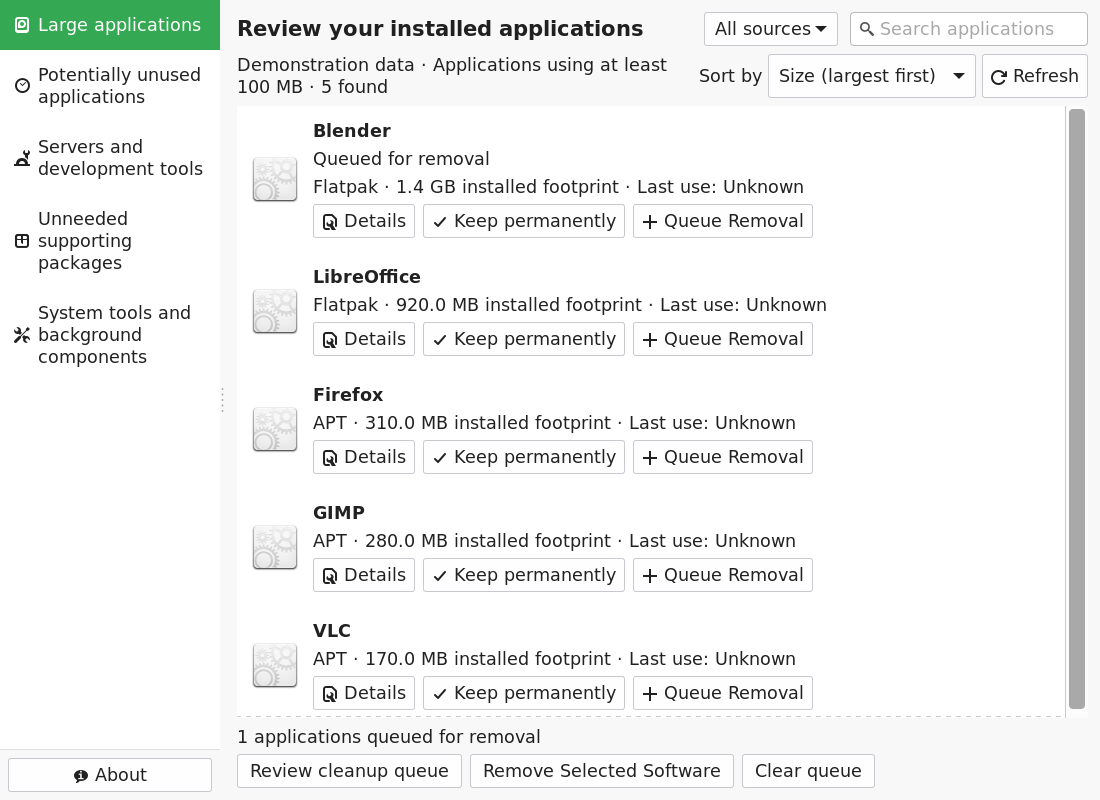
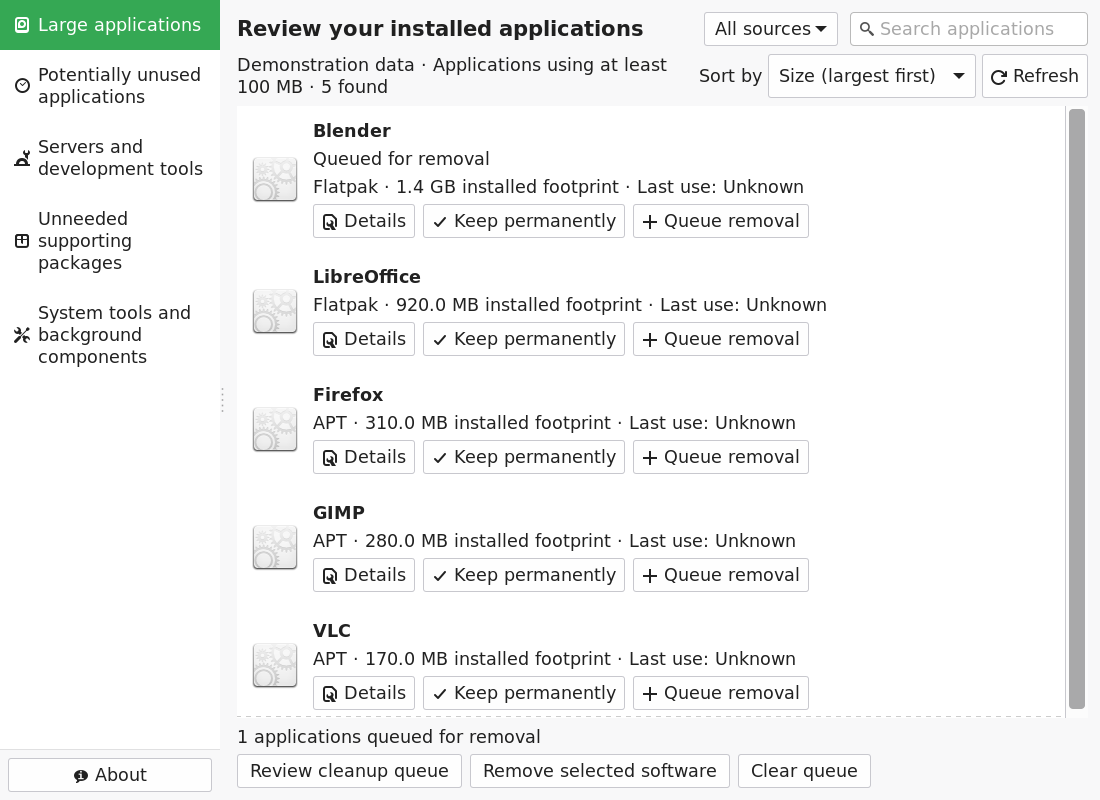
Release v0.1.2 with consistent sentence-case action labels

diff --git a/package_cleaner/presentation.py b/package_cleaner/presentation.py
@@ -433,7 +433,7 @@ def review(packages, candidates=None, log=None, preferences=None, limit=5, categ
         if item.package in preferences.kept or item.identity in preferences.kept:
             print('Currently marked Keep; future scans will leave it out.')
         protected = bool(packages[item.package].protected)
-        write('[K] Keep permanently  ' + ('' if protected else '[R] Queue Removal  ') + '[S] Skip  [P] Previous  [D] Details  [T] Advanced package information  [F] Finish  [Q] Quit', 'actions')
+        write('[K] Keep permanently  ' + ('' if protected else '[R] Queue removal  ') + '[S] Skip  [P] Previous  [D] Details  [T] Advanced package information  [F] Finish  [Q] Quit', 'actions')
         answer = ask('What would you like to do? ' + ('[K/S/P/D/T/F/Q]:' if protected else '[K/R/S/P/D/T/F/Q]:'), 'question')
         if answer == 'q':
             return quit_review(selected)
@@ -541,10 +541,10 @@ def review(packages, candidates=None, log=None, preferences=None, limit=5, categ
                 title, purpose, keep_reason = describe(fresh[name])
                 print(f'\nAlso affected: {title}\n{purpose}\n{keep_reason}')
                 print('Your current selection would also remove this software. It needs a separate decision.')
-                choice = ask('[R] Queue Removal — add to preview  [K] Keep permanently  [S] Skip  [D] Details  [Q] Quit: ')
+                choice = ask('[R] Queue removal — add to preview  [K] Keep permanently  [S] Skip  [D] Details  [Q] Quit: ')
                 while choice == 'd':
                     details(fresh[name], fresh)
-                    choice = ask('[R] Queue Removal — add to preview  [K] Keep permanently  [S] Skip  [Q] Quit: ')
+                    choice = ask('[R] Queue removal — add to preview  [K] Keep permanently  [S] Skip  [Q] Quit: ')
                 if choice == 'q':
                     return quit_review(selected | additions)
                 if choice == 'r':
@@ -563,7 +563,7 @@ def review(packages, candidates=None, log=None, preferences=None, limit=5, categ
 
 
 def review_help():
-    write('Choose a category, then review one application at a time. [K] Keep permanently saves your choice; [R] Queue Removal checks the proposed changes; [S] Skip asks again next time. At a set boundary, [N] Next set continues the review. [P] Previous revisits a suggestion; [D] Details shows more information. [F] Finish shows your selected cleanup; [Q] Quit discards it.')
+    write('Choose a category, then review one application at a time. [K] Keep permanently saves your choice; [R] Queue removal checks the proposed changes; [S] Skip asks again next time. At a set boundary, [N] Next set continues the review. [P] Previous revisits a suggestion; [D] Details shows more information. [F] Finish shows your selected cleanup; [Q] Quit discards it.')
     write('Removal is available only with --enable-removal, followed by Execute and exact REMOVE confirmation. Usage records may be incomplete, and old file timestamps do not prove non-use. Details explains the current application. Advanced package information and the final detailed proposal are paginated.')
 
 

diff --git a/package_cleaner/gui.py b/package_cleaner/gui.py
@@ -226,7 +226,7 @@ def Window(application, service):
             self.preview_button = Gtk.Button(label='Review cleanup queue')
             self.preview_button.connect('clicked', lambda _: self.perform('Validating the removal queue…', service.validate, self.show_preview))
             queue_actions.pack_start(self.preview_button, False, False, 0)
-            self.remove_button = Gtk.Button(label='Remove Selected Software')
+            self.remove_button = Gtk.Button(label='Remove selected software')
             self.remove_button.set_tooltip_text('Validate and review the queue before confirming removal')
             self.remove_button.connect('clicked', self.start_cleanup)
             queue_actions.pack_start(self.remove_button, False, False, 0)
@@ -511,10 +511,10 @@ def Window(application, service):
                 for label, callback in (
                     ('Details', lambda _, i=item: self.details(i)),
                     ('Keep permanently', lambda _, i=item: self.perform('Saving your Keep choice…', lambda: service.keep(i.package), lambda value: self.after_keep(i))),
-                    ('Queue Removal', lambda _, i=item: self.perform('Updating the removal queue…', lambda: service.select(i.package), lambda value: self.after_queue(i)))):
+                    ('Queue removal', lambda _, i=item: self.perform('Updating the removal queue…', lambda: service.select(i.package), lambda value: self.after_queue(i)))):
                     button = Gtk.Button(label=label)
-                    decorate_button(button, {'Details': 'details', 'Keep permanently': 'keep', 'Queue Removal': 'queue'}[label])
-                    if label == 'Queue Removal':
+                    decorate_button(button, {'Details': 'details', 'Keep permanently': 'keep', 'Queue removal': 'queue'}[label])
+                    if label == 'Queue removal':
                         button.set_sensitive(not item.protected)
                         button.set_tooltip_text('Save your intention to remove this application. Review cleanup queue validates the proposed transaction; queuing never authorizes execution.')
                     button.connect('clicked', callback)
@@ -590,7 +590,7 @@ def Window(application, service):
             dialog.set_default_size(650, 520)
             dialog.add_button('Back to review', Gtk.ResponseType.CANCEL)
             if preview.ready:
-                dialog.add_button('Remove Selected Software…', Gtk.ResponseType.ACCEPT)
+                dialog.add_button('Remove selected software…', Gtk.ResponseType.ACCEPT)
             outer = Gtk.ScrolledWindow()
             outer.set_policy(Gtk.PolicyType.NEVER, Gtk.PolicyType.AUTOMATIC)
             dialog.get_content_area().pack_start(outer, True, True, 0)

diff --git a/tests/test_gui.py b/tests/test_gui.py
@@ -180,7 +180,7 @@ class GtkTests(ReviewServiceTests):
                     window.component_filter.set_active_id('all')
                     row=next(r for r in window.rows.get_children() if r.package_id=='protected')
                     actions=row.get_child().get_children()[1].get_children()[-1].get_children()
-                    self.assertFalse(next(b for b in actions if b.get_label()=='Queue Removal').get_sensitive())
+                    self.assertFalse(next(b for b in actions if b.get_label()=='Queue removal').get_sensitive())
                     window.search.set_text('tool')
                     self.assertFalse(window.component_controls.get_visible())
                     window.search.set_text('')
@@ -331,7 +331,7 @@ class GtkTests(ReviewServiceTests):
                 window.search.set_text(protected.name)
                 self.assertTrue(window.items[0].protected)
                 protected_actions = window.rows.get_children()[0].get_child().get_children()[1].get_children()[-1].get_children()
-                self.assertFalse(next(b for b in protected_actions if b.get_label() == 'Queue Removal').get_sensitive())
+                self.assertFalse(next(b for b in protected_actions if b.get_label() == 'Queue removal').get_sensitive())
                 window.search.set_text('')
                 self.assertEqual(discover.call_count,calls_before)
                 window.details(self.item)
@@ -340,8 +340,8 @@ class GtkTests(ReviewServiceTests):
                     if isinstance(widget, Gtk.Container):
                         for child in widget.get_children():
                             yield from descendants(child)
-                queue = next(w for w in descendants(window) if isinstance(w, Gtk.Button) and w.get_label() == 'Queue Removal')
-                self.assertEqual(queue.get_accessible().get_name(), 'Queue Removal')
+                queue = next(w for w in descendants(window) if isinstance(w, Gtk.Button) and w.get_label() == 'Queue removal')
+                self.assertEqual(queue.get_accessible().get_name(), 'Queue removal')
                 self.assertIn('never authorizes execution', queue.get_tooltip_text())
                 queue.clicked()
                 drain(window)

diff --git a/tests/test_guided.py b/tests/test_guided.py
@@ -99,7 +99,7 @@ class GuidedTests(unittest.TestCase):
         result, output, simulate, inventory = self.run_review(['k', 'p', 'r', 'f', 'f'])
         self.assertEqual(result, 0)
         self.assertNotIn('one:amd64', self.prefs.kept)
-        self.assertEqual(inventory.call_count, 2)  # choosing Queue Removal and final revalidation
+        self.assertEqual(inventory.call_count, 2)  # choosing Queue removal and final revalidation
         self.assertEqual(simulate.call_args.args[0], ['one:amd64'])
         self.assertIn('Reviewing suggestion 2 of 2', output)
         self.assertIn('Your cleanup summary', output)
@@ -181,7 +181,7 @@ class GuidedTests(unittest.TestCase):
     def test_quit_discards_staged_selection_without_final_revalidation(self):
         result, output, simulate, inventory = self.run_review(['r', 'q'])
         self.assertEqual(result, 0)
-        self.assertEqual(simulate.call_count, 1)  # Only the earlier Queue Removal preview.
+        self.assertEqual(simulate.call_count, 1)  # Only the earlier Queue removal preview.
         self.assertEqual(inventory.call_count, 1)
         self.assertNotIn('Your cleanup summary', output)
         self.assertIn('Queued removal choices discarded', output)
@@ -219,7 +219,7 @@ class GuidedTests(unittest.TestCase):
         simulate.assert_not_called()
         inventory.assert_not_called()
         self.assertEqual(output.count('Reviewing suggestion 1 of 2'), 3)
-        for label in ('[K] Keep permanently', '[R] Queue Removal', '[S] Skip',
+        for label in ('[K] Keep permanently', '[R] Queue removal', '[S] Skip',
                       '[P] Previous', '[D] Details', '[F] Finish', '[Q] Quit'):
             self.assertIn(label, output)
         self.assertNotIn('[Y]', output)

diff --git a/tests/test_packaging.py b/tests/test_packaging.py
@@ -53,7 +53,7 @@ class DebianPackageTests(unittest.TestCase):
                 script=root/'usr/bin'/name
                 self.assertEqual(script.stat().st_mode & 0o7777,0o755)
                 self.assertIn('/usr/share/package-cleaner',script.read_text())
-            code="import sys;sys.path.insert(0,sys.argv[1]);from package_cleaner import __version__;from package_cleaner.gui_icons import APPLICATION_ICON;assert __version__=='0.1.1';assert APPLICATION_ICON.exists();from package_cleaner.__main__ import main;sys.argv=['package-cleaner','--help'];main()"
+            code="import sys;sys.path.insert(0,sys.argv[1]);from package_cleaner import __version__;from package_cleaner.gui_icons import APPLICATION_ICON;assert __version__=='0.1.2';assert APPLICATION_ICON.exists();from package_cleaner.__main__ import main;sys.argv=['package-cleaner','--help'];main()"
             result=subprocess.run(['/usr/bin/python3','-I','-c',code,str(root/'usr/share/package-cleaner')],capture_output=True,text=True)
             self.assertEqual(result.returncode,0,result.stderr)
             self.assertIn('usage:',result.stdout)

diff --git a/tests/test_gui_execution.py b/tests/test_gui_execution.py
@@ -105,7 +105,7 @@ class GtkExecutionTests(unittest.TestCase):
             self.assertEqual(window.get_title(),'Package Cleaner')
             self.assertEqual(window.content_stack.get_visible_child_name(),'about')
             labels=[child.get_text() for child in window.about_page.get_children() if isinstance(child,self.Gtk.Label)]
-            self.assertEqual(labels,['Package Cleaner','© 2026 Erick Woods','Version 0.1.1'])
+            self.assertEqual(labels,['Package Cleaner','© 2026 Erick Woods','Version 0.1.2'])
             self.assertEqual(window.about_page.get_halign(),self.Gtk.Align.CENTER)
             self.assertEqual(window.about_page.get_valign(),self.Gtk.Align.CENTER)
             self.assertTrue(all(child.get_xalign()==0.5 for child in window.about_page.get_children() if isinstance(child,self.Gtk.Label)))

diff --git a/tests/test_categories_terminal.py b/tests/test_categories_terminal.py
@@ -106,7 +106,7 @@ class TerminalTests(unittest.TestCase):
     def test_styles_wrap_plain_text_and_highlight_shortcuts(self):
         with patch.dict(os.environ, {'TERM': 'xterm'}, clear=True):
             stream = TTY()
-            write('[K] Keep it permanently [R] Queue Removal [D] Details', 'actions', stream, width=30)
+            write('[K] Keep it permanently [R] Queue removal [D] Details', 'actions', stream, width=30)
         text = stream.getvalue()
         self.assertIn('\033[1;36m[K]', text)
         plain = re.sub(r'\x1b\[[0-9;]*m', '', text)

diff --git a/package_cleaner/__init__.py b/package_cleaner/__init__.py
@@ -2,4 +2,4 @@
 # Copyright (C) 2026 Erick Woods
 """PackageCleaner: shared core library with independent terminal and GTK frontends."""
 
-__version__ = "0.1.1"
+__version__ = "0.1.2"

diff --git a/README.md b/README.md
@@ -26,7 +26,7 @@ Written in Python, with a native GTK interface and an interactive terminal inter
 
 Developed and tested on **Linux Mint 22.3 Cinnamon**, using the system Python 3 and GTK 3. The APT backend targets the standard Debian/Ubuntu package-management layout. Other distributions, custom APT roots/configurations, and desktop environments have not been validated; Debian/Ubuntu compatibility is a design direction, not a support guarantee.
 
-Version **0.1.1** is a pre-release. A `.deb` installer and source archives are available on the [releases page](https://github.com/woodpile72/PackageCleaner/releases). There is no PyPI distribution. Do not run the GUI as root.
+Version **0.1.2** is a pre-release. A `.deb` installer and source archives are available on the [releases page](https://github.com/woodpile72/PackageCleaner/releases). There is no PyPI distribution. Do not run the GUI as root.
 
 ## Requirements
 
@@ -49,11 +49,11 @@ Graphical APT authentication currently searches for root-owned, non-writable exe
 
 ## Install the Debian package
 
-Download `package-cleaner_0.1.1_all.deb` and `SHA256SUMS` from the [v0.1.1 pre-release](https://github.com/woodpile72/PackageCleaner/releases/tag/v0.1.1). In the download directory:
+Download `package-cleaner_0.1.2_all.deb` and `SHA256SUMS` from the [v0.1.2 pre-release](https://github.com/woodpile72/PackageCleaner/releases/tag/v0.1.2). In the download directory:
 
 ```sh
 sha256sum -c SHA256SUMS
-sudo apt install ./package-cleaner_0.1.1_all.deb
+sudo apt install ./package-cleaner_0.1.2_all.deb
 ```
 
 Review APT's proposed changes before confirming. The `all` architecture package contains Python and SVG assets, not native compiled code. It targets Linux Mint 22.3; installation on other Debian-derived distributions is not a compatibility guarantee.
@@ -107,9 +107,9 @@ The CLI requires an exact `REMOVE` confirmation for each transaction. GTK uses a
 ## Queues, previews, and removal
 
 1. Browse categories or search. **Keep permanently** suppresses recommendations; explicit search can still inspect kept or protected software.
-2. **Queue Removal** in GTK records your intention. It does not simulate or authorize execution. The CLI's **R** also requests a preview.
+2. **Queue removal** in GTK records your intention. It does not simulate or authorize execution. The CLI's **R** also requests a preview.
 3. **Review cleanup queue** validates the combined GTK selection and explains affected software, supporting packages and warnings.
-4. **Remove Selected Software** reconstructs and validates proposals. Confirm each provider/Flatpak installation separately. Changed proposals require approval again.
+4. **Remove selected software** reconstructs and validates proposals. Confirm each provider/Flatpak installation separately. Changed proposals require approval again.
 5. Read the verified result. Incomplete or uncertain outcomes stop the sequence; do not blindly retry.
 
 APT uses its own resolver. Previously eligible autoremove packages are kept separate from application-specific removals. The final explicit transaction disables global autoremove and must pass protection and manual-selection checks. Shared dependencies remain installed when required. Software grouping is not blanket approval to remove every package in a stack.

diff --git a/CONTRIBUTING.md b/CONTRIBUTING.md
@@ -41,13 +41,13 @@ Do not commit `work/`, generated inventories, runtime logs, private configuratio
 
 ## Building the Debian installer
 
-`/usr/bin/python3 packaging/build_deb.py` builds `dist/package-cleaner_0.1.1_all.deb` using the system `dpkg-deb`; no root privileges, network access or installation is involved. The builder copies an explicit set of source/data files, writes root ownership to the archive, and includes no maintainer scripts. `SOURCE_DATE_EPOCH` can override the timestamp; by default it uses the latest Git commit time. With unchanged input and epoch, repeated builds are identical.
+`/usr/bin/python3 packaging/build_deb.py` builds `dist/package-cleaner_0.1.2_all.deb` using the system `dpkg-deb`; no root privileges, network access or installation is involved. The builder copies an explicit set of source/data files, writes root ownership to the archive, and includes no maintainer scripts. `SOURCE_DATE_EPOCH` can override the timestamp; by default it uses the latest Git commit time. With unchanged input and epoch, repeated builds are identical.
 
-Run `lintian dist/package-cleaner_0.1.1_all.deb` if lintian is available, and `dpkg-deb --contents` / `--info` to inspect it. Tests build and extract the archive in temporary directories, never install it. Real installation is a separate explicitly authorized action. Release checksums cover the uploaded `.deb`; GitHub supplies source archives for the tag.
+Run `lintian dist/package-cleaner_0.1.2_all.deb` if lintian is available, and `dpkg-deb --contents` / `--info` to inspect it. Tests build and extract the archive in temporary directories, never install it. Real installation is a separate explicitly authorized action. Release checksums cover the uploaded `.deb`; GitHub supplies source archives for the tag.
 
 Generate the public screenshot with `/usr/bin/python3 tools/demo_screenshot.py` in a GTK session. It uses fabricated inventory and blocks execution, never host discovery. When building a source archive without Git history, timestamps fall back to the newest packaging changelog date. Flatpak bindings are recommended, not mandatory; missing Flatpak support leaves APT discovery available.
 
-`tools/check_deb_isolated.py dist/package-cleaner_0.1.1_all.deb` is an opt-in local packaging check requiring user namespaces and bubblewrap. It never modifies the host package database. It uses `--force-depends` in an otherwise empty temporary dpkg root, then read-only host runtime mounts; dependency metadata must also be checked with APT simulation. Its live preview targets an already installed Package Cleaner. It is not part of CI and is not a substitute for a fresh Mint VM trial.
+`tools/check_deb_isolated.py dist/package-cleaner_0.1.2_all.deb` is an opt-in local packaging check requiring user namespaces and bubblewrap. It never modifies the host package database. It uses `--force-depends` in an otherwise empty temporary dpkg root, then read-only host runtime mounts; dependency metadata must also be checked with APT simulation. Its live preview targets an already installed Package Cleaner. It is not part of CI and is not a substitute for a fresh Mint VM trial.
 
 To check an upgrade in the same disposable environment, add
 `--upgrade-from dist/package-cleaner_0.1.0_all.deb`. This verifies the old version

diff --git a/CHANGELOG.md b/CHANGELOG.md
@@ -1,5 +1,10 @@
 # Changelog
 
+## 0.1.2 — pre-release
+
+- Use consistent sentence case for GTK and CLI action labels.
+- Update matching documentation and tests. No cleanup behavior changed.
+
 ## 0.1.1 — pre-release
 
 - Correct disabled-backend readiness and show the backend's actual reason.
